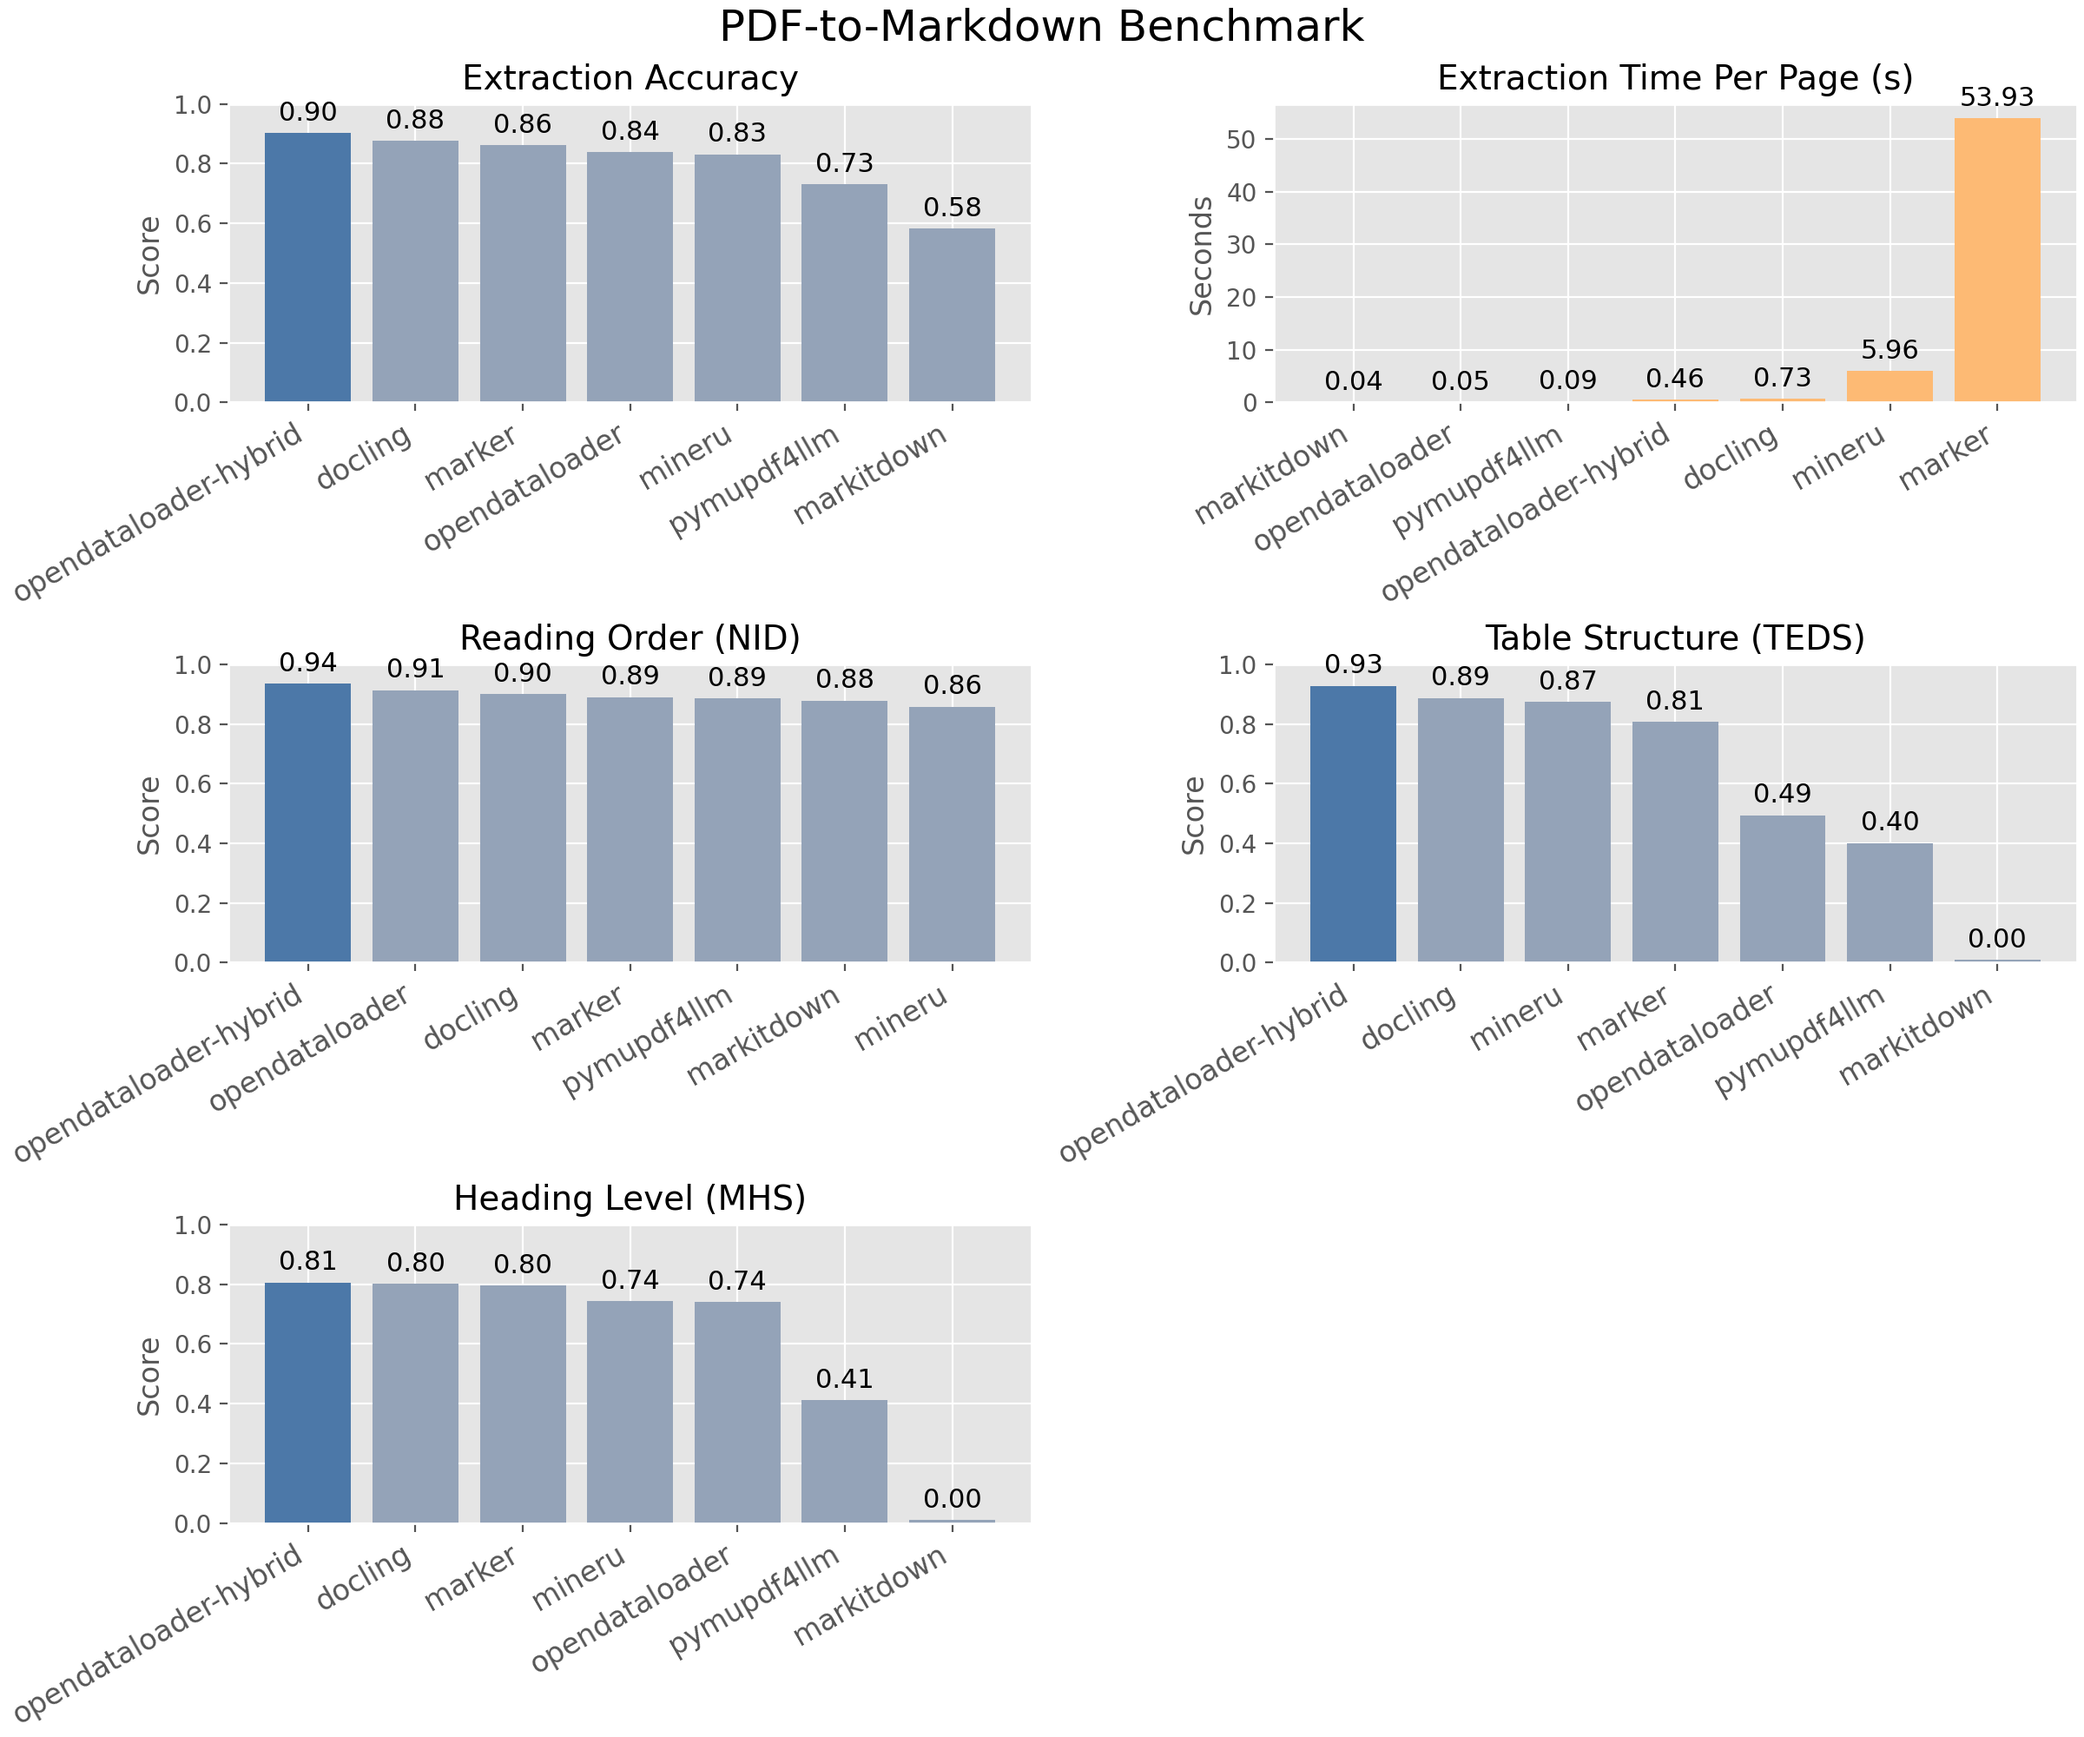
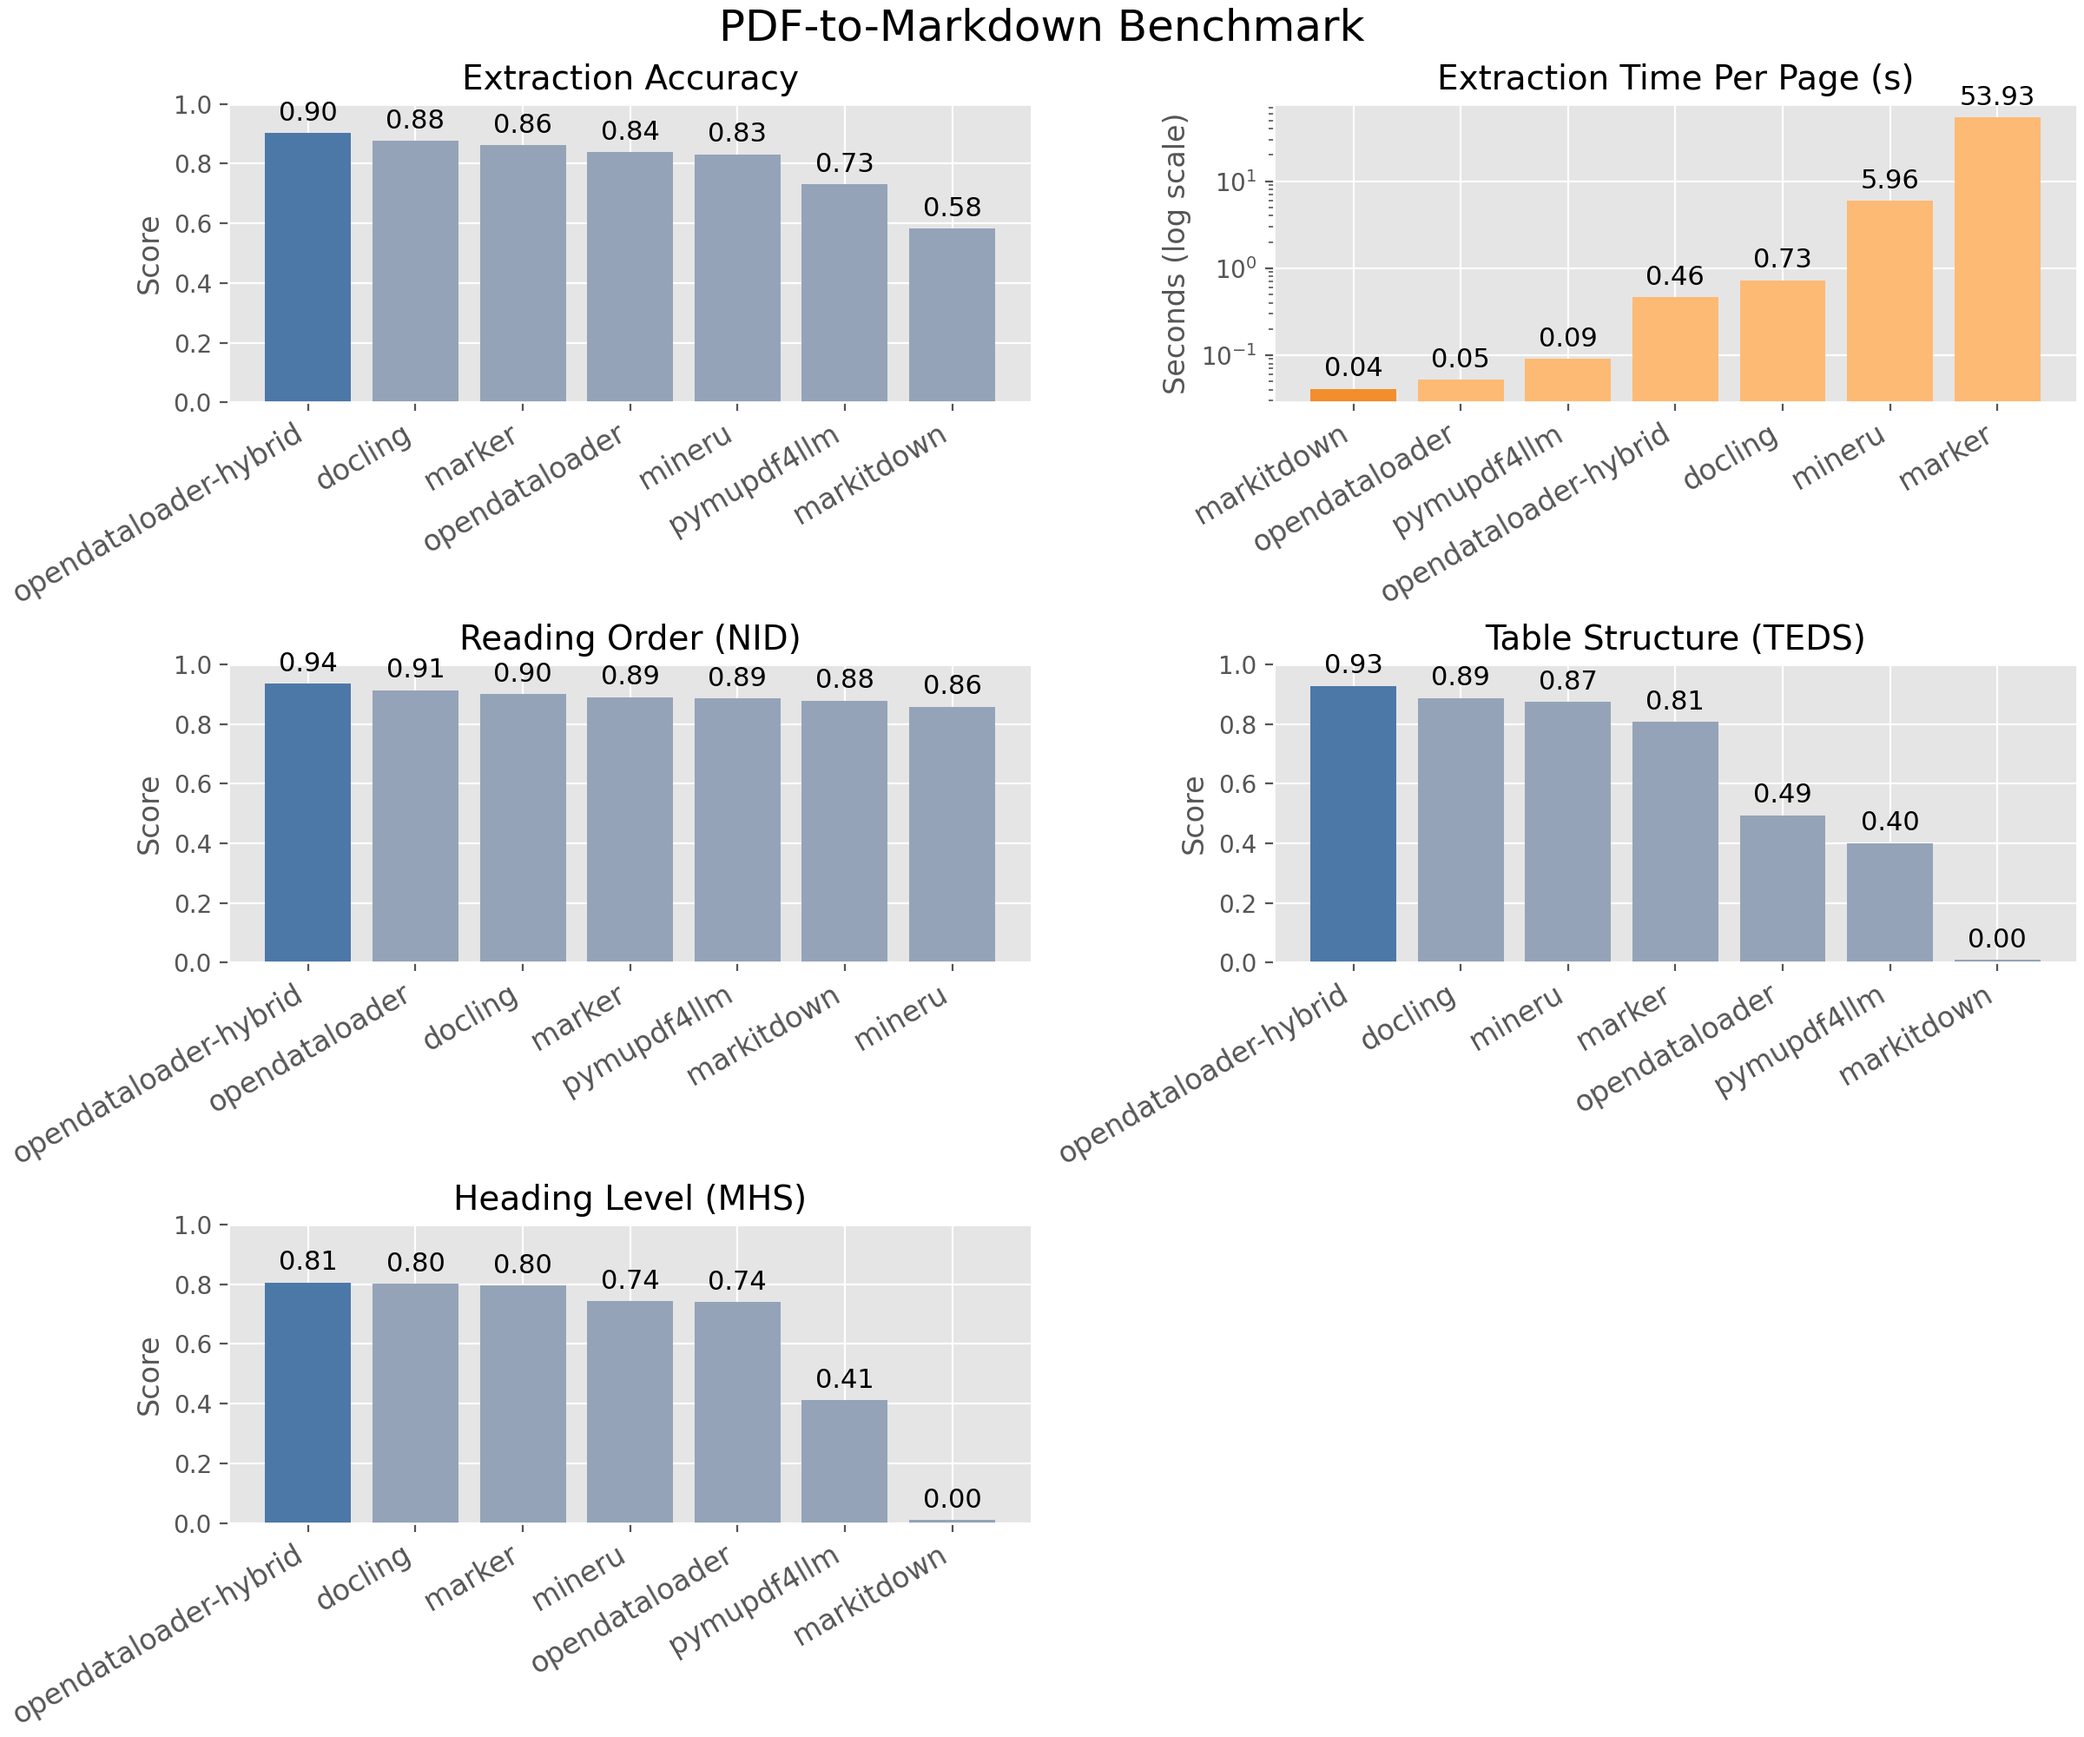
feat: use log scale for extraction time chart
1,348x range (0.04–53.93s) made linear scale unreadable for fast engines.

Changed region(s): [[0.625, 0.093, 0.9375, 0.248], [0.5625, 0.093, 0.625, 0.217]]

diff --git a/src/generate_benchmark_chart.py b/src/generate_benchmark_chart.py
@@ -226,8 +226,9 @@ def _plot_time_metric(
     bars = ax.bar(labels, clean_values, color=colors)
     _ensure_min_bar_height(bars, sorted_values)
     _add_value_labels(ax, bars, sorted_values)
+    ax.set_yscale("log")
     ax.set_title("Extraction Time Per Page (s)", fontsize=14)
-    ax.set_ylabel("Seconds", fontsize=12)
+    ax.set_ylabel("Seconds (log scale)", fontsize=12)
     ax.set_xticks(list(index))
     ax.set_xticklabels(labels, rotation=30, ha="right", fontsize=12)
 
